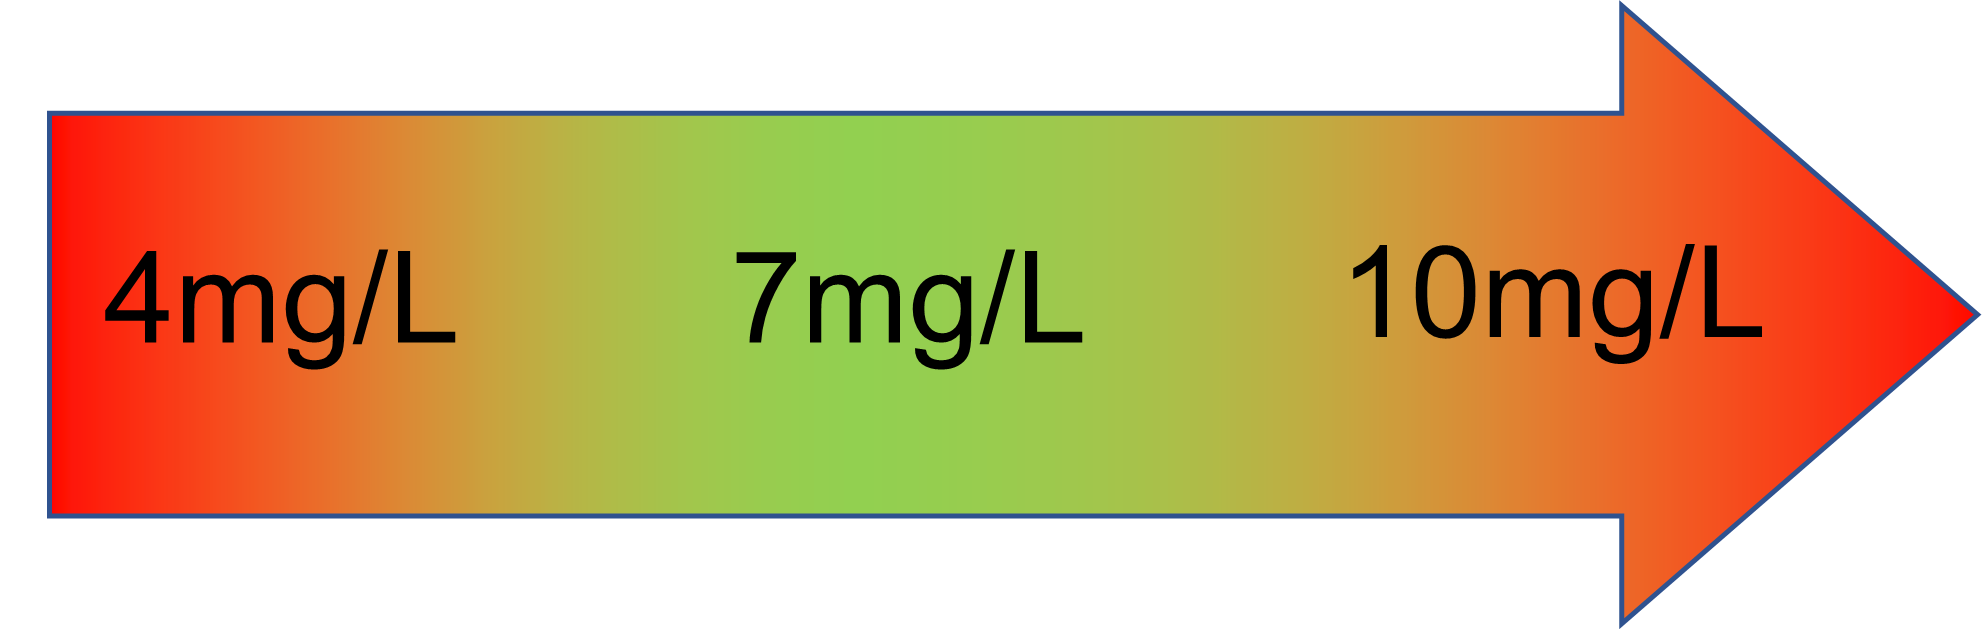
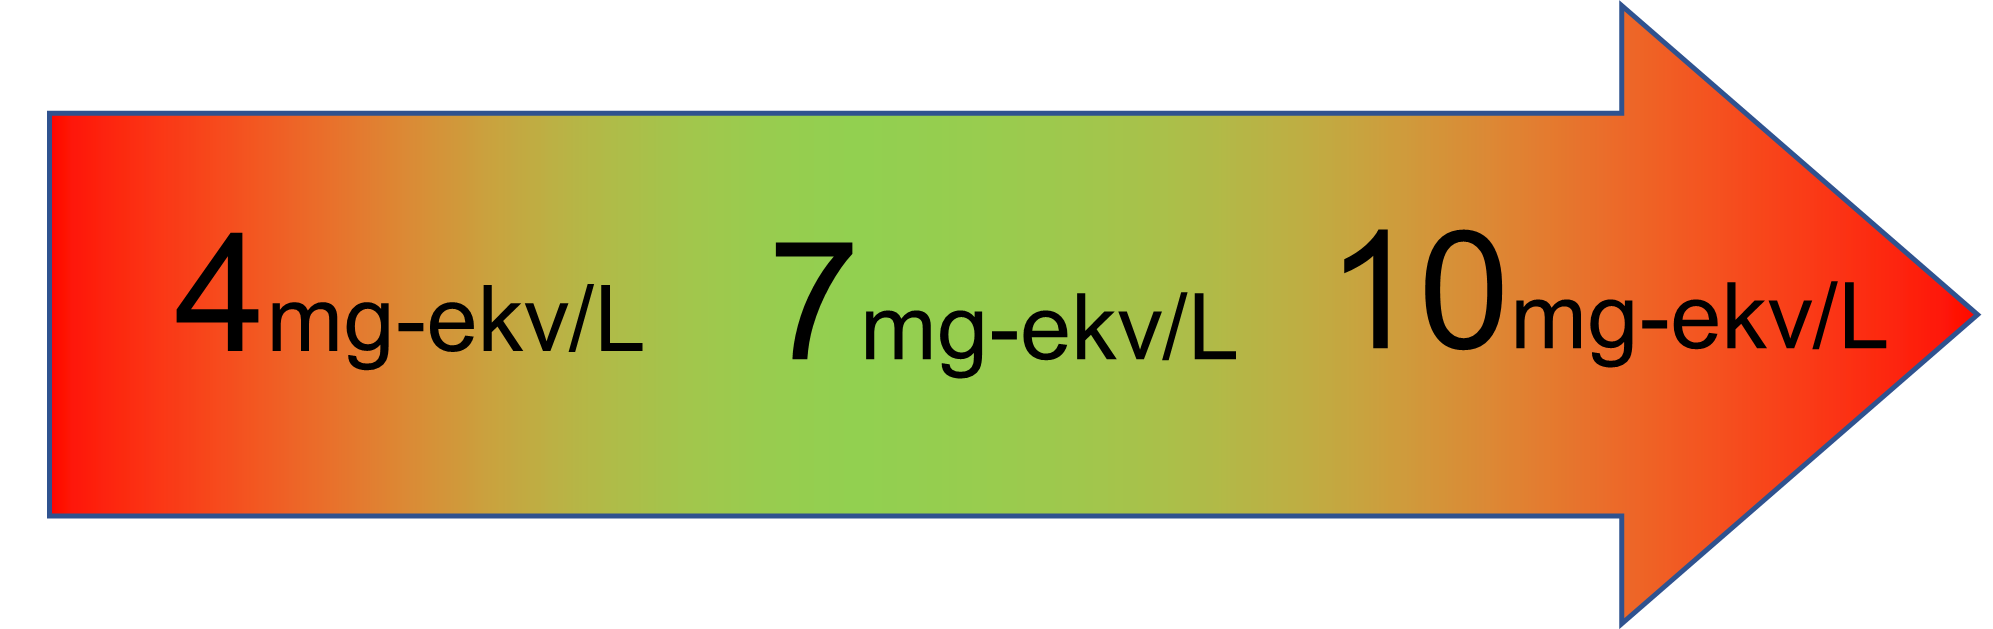
Add name chemical substances

diff --git a/indexuz.html b/indexuz.html
@@ -32,7 +32,7 @@
     <div class="container">
         <h1> Suvning Sifat Indeksini (WQI) Hisoblash</h1>
         <p>
-          Yer osti ichimlik suvining sifat indeksini hisoblaydigan ushbu kalkulyator quyidagi o'nta indikator bo'yicha hisoblaydi:  (\(pH\)), (\(OA (KMnO_4)\)), (\(NO_3^-\)), (\(TH\)),  (\(TDS\)),  (\(Cl^-\)),  (\(SO_{4}^{2-}\)),  (\(Fe^{2+}\)),   (\(F^-\)),  (\(Cu^{2+}\)).
+          Yer osti ichimlik suvining sifat indeksini hisoblaydigan ushbu kalkulyator quyidagi o'nta indikator bo'yicha hisoblaydi: Vodorod - ko'rsatkichi (\(pH\)), Kaliy permanganatli oksidlanish qobilyati(\(OA (KMnO_4)\)), Nitrat (\(NO_3^-\)), Umumiy qattiqligi (\(TH\)), Umumiy minerallanishi (\(TDS\)), Xlorid (\(Cl^-\)), Sulfat (\(SO_{4}^{2-}\)), Temir (\(Fe^{2+}\)), Ftor  (\(F^-\)), Mis (\(Cu^{2+}\)).
         </p>
 
         <div class="calculator">
@@ -63,70 +63,72 @@
 
                 <div class="row">
                     <div class="row2">
-                        <div>pH</div>
+                        <div>Vodorod - ko'rsatkichi(pH)</div>
                         <div><input type="number" id="ph" placeholder="pH"></div>
                     </div>
                     <div><img class="no" src="images/pH.png"><img class="on" src="images/pHm.png"></div>
                 </div>
                 <div class="row">
                     <div class="row2">
-                        <div>OA (KMnO₄) (mg/L)</div>
-                        <div><input type="number" id="oxidizing" placeholder="Oksidlanish qobiliyati (KMnO₄) (mg/L)"></div>
+                        <div>Kaliy permanganatli <br>
+                            oksidlanish qobilyati
+                            (OA (KMnO₄))</div>
+                        <div><input type="number" id="oxidizing" placeholder="OA (KMnO₄) (mg/L)"></div>
                     </div>
                     <div><img  class="no" src="images/OA.png"><img class="on" src="images/OAm.png"></div>
                 </div>
                 <div class="row">
                     <div class="row2">
-                        <div>\(NO_3^-\) (mg/L)</div>
+                        <div>Nitrat (\(NO_3^-\)) </div>
                         <div><input type="number" id="no3" placeholder="NO₃⁻ (mg/L)"></div>
                     </div>
                     <div><img  class="no" src="images/No3.png"><img class="on" src="images/NO3m.png"></div>
                 </div>
                 <div class="row">
                     <div class="row2">
-                        <div>TH (mg-ekv/dm³)</div>
-                        <div><input type="number" id="hardness" placeholder="umumiy qattiqlik(mg-ekv/dm³)"></div>
+                        <div>Umumiy qattiqligi (TH)</div>
+                        <div><input type="number" id="hardness" placeholder="TH(mg-ekv/L)"></div>
                     </div>
                     <div><img  class="no" src="images/TH.png"><img class="on" src="images/THm.png"></div>
                 </div>
                 <div class="row">
                     <div class="row2">
-                        <div>TDS (mg/L)</div>
-                        <div><input type="number" id="tss" placeholder="TSS (mg/L)"></div>
+                        <div>Umumiy minerallanishi(TDS)</div>
+                        <div><input type="number" id="tss" placeholder="TDS (mg/L)"></div>
                     </div>
                     <div><img  class="no" src="images/TSS.png"><img class="on" src="images/TSSm.png"></div>
                 </div>
                 <div class="row">
                     <div class="row2">
-                        <div>Cl⁻ (mg/L)</div>
+                        <div>Xlorid (Cl⁻)</div>
                         <div><input type="number" id="cl" placeholder="Cl⁻ (mg/L)"></div>
                     </div>
                     <div><img  class="no" src="images/Cl.png"><img class="on" src="images/Clm.png"></div>
                 </div>
                 <div class="row">
                     <div class="row2">
-                        <div>\(SO_{4}^{2-}\) (mg/L)</div>
+                        <div>Sulfat (\(SO_{4}^{2-}\))</div>
                         <div><input type="number" id="so4" placeholder="SO₄²⁻ (mg/L)"></div>
                     </div>
                     <div><img  class="no" src="images/SO4.png"><img class="on" src="images/SO4m.png"></div>
                 </div>
                 <div class="row">
                     <div class="row2">
-                        <div>Fe²⁺ (mg/L)</div>
+                        <div>Temir (Fe²⁺ )</div>
                         <div><input type="number" id="fe" placeholder="Fe²⁺ (mg/L)"></div>
                     </div>
                     <div><img  class="no" src="images/FE.png"><img class="on" src="images/Fem.png"></div>
                 </div>
                 <div class="row">
                     <div class="row2">
-                        <div>F⁻ (mg/L)</div>
+                        <div>Ftor (F⁻ )</div>
                         <div><input type="number" id="f" placeholder="F⁻ (mg/L)"></div>
                     </div>
                     <div><img  class="no" src="images/F.png"><img class="on" src="images/Fm.png"></div>
                 </div>
                 <div class="row">
                     <div class="row2">
-                        <div>Cu²⁺ (mg/L)</div>
+                        <div>Mis (Cu²⁺ )</div>
                         <div><input type="number" id="cu" placeholder="Cu²⁺ (mg/L)"></div>
                     </div>
                     <div><img  class="no" src="images/Cu.png"><img class="on" src="images/Cum.png"></div>
